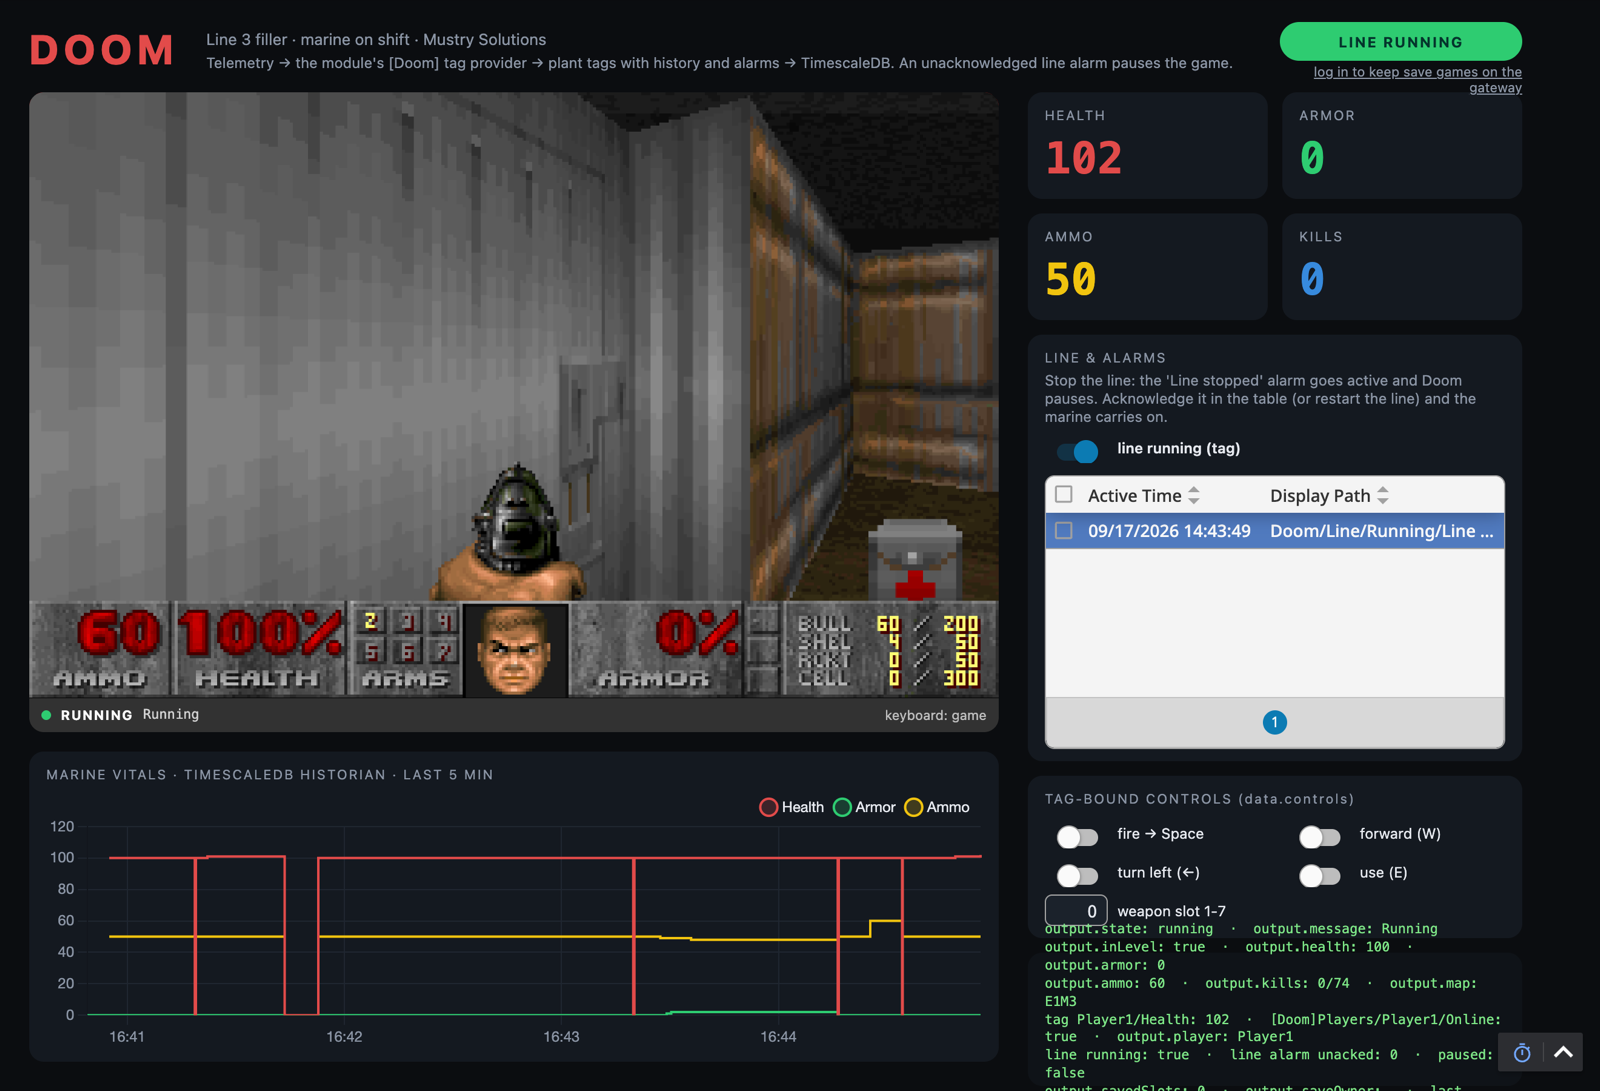
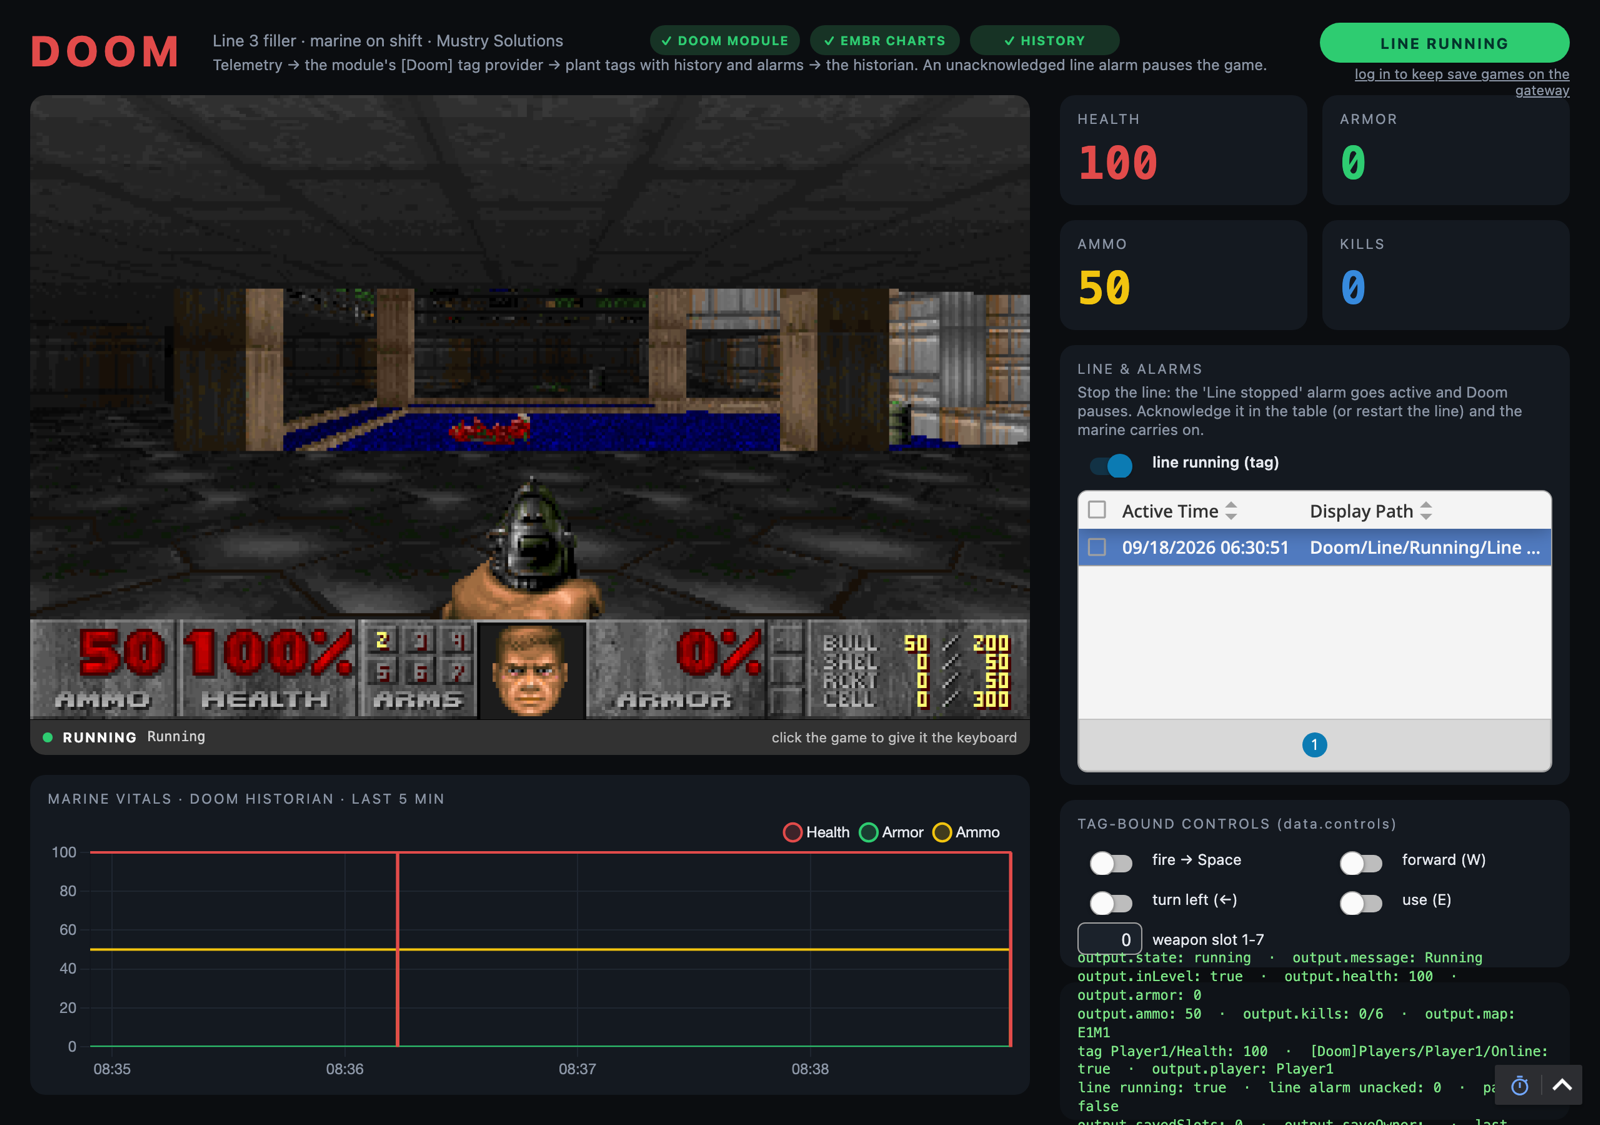
Demo: requirements pills in the header, README full-experience table; fix history never enabling
The control-room header shows three pills (Doom module, Embr Charts,
History), green or grey, driven by one view.custom.requirements check on
the gateway. The chart placeholder names the missing piece and the chart
component is hidden unless both optional pieces exist. README gets a table
of the three pieces and where each comes from.

Building the check exposed that the demo's historian lookup called
system.tag.getHistorianProviders, which does not exist in 8.3: since 0.1.2
the error was swallowed and history was never enabled. Providers now come
from system.tag.browseHistoricalTags(""); an e2e test asserts all three
pills are green on the CI gateway.

ops/: container names and ports overridable per checkout so a worktree can
run its own dev gateway; environment wins over .env.

diff --git a/e2e/tests/doom.spec.ts b/e2e/tests/doom.spec.ts
@@ -97,6 +97,18 @@ test('doom: live telemetry reaches the outputs and the bound tags', async ({ pag
     await expect(page.getByText(/output\.player: Player1/)).toBeVisible();
 });
 
+test('demo: the header pills report the Doom module, Embr Charts and a historian present', async ({ page }) => {
+    // The dev/CI gateway stages both optional modules and seeds the "Doom
+    // Historian" profile, so all three must be found. A grey pill here means
+    // the detection broke (0.1.2 shipped with history silently off because it
+    // called a system.tag function that does not exist).
+    await openRoute(page, '/', '.mustry-doom');
+    await expect(page.getByText('\u2713 DOOM MODULE')).toBeVisible({ timeout: 20_000 });
+    await expect(page.getByText('\u2713 EMBR CHARTS')).toBeVisible();
+    await expect(page.getByText('\u2713 HISTORY')).toBeVisible();
+    await expect(page.getByText(/MARINE VITALS \u00b7 DOOM HISTORIAN/)).toBeVisible();
+});
+
 test('doom: quitting from the in-game menu leaves a restartable component, Restart brings it back', async ({ page }) => {
     const root = await startGame(page);
     // Real keys through the focused canvas: Escape opens the menu, Quit Game is

diff --git a/ops/verify/project/ignition/script-python/doom/code.py b/ops/verify/project/ignition/script-python/doom/code.py
@@ -18,16 +18,54 @@
 # project), fall back to whatever historian exists, else no history at all.
 PREFERRED_HISTORIAN = "Doom Historian"
 
+# Module ids the full demo wants, as module.xml declares them.
+DOOM_MODULE = "com.mustrysolutions.doom"
+EMBR_CHARTS_MODULE = "com.mussonindustrial.embr.charts"
+
 
 def historian():
-    """The tag history provider to use, or None when the gateway has none."""
+    """The tag history provider to use, or None when the gateway has none.
+
+    8.3 has no script call that lists historians by name; browsing the
+    historical tag tree from its root returns one node per provider, as
+    "histprov:<name>". (system.tag.getHistorianProviders does not exist.)"""
+    names = []
     try:
-        names = list(system.tag.getHistorianProviders())
-    except Exception:
-        names = []
+        for node in system.tag.browseHistoricalTags("").getResults():
+            path = str(node.getPath())
+            if path.startswith("histprov:"):
+                names.append(path[len("histprov:"):].split(":")[0])
+    except Exception as e:
+        system.util.getLogger("MustryDoom.verify").warn("Could not list historian providers: %s" % e)
     if PREFERRED_HISTORIAN in names:
         return PREFERRED_HISTORIAN
     return names[0] if names else None
+
+
+def running_modules():
+    """Ids of the modules this gateway is running (system.util.getModules reports State "ACTIVE")."""
+    ids = set()
+    try:
+        for row in system.dataset.toPyDataSet(system.util.getModules()):
+            if str(row["State"]).lower() in ("active", "running"):
+                ids.add(str(row["Id"]))
+    except Exception as e:
+        system.util.getLogger("MustryDoom.verify").warn("Could not list modules: %s" % e)
+    return ids
+
+
+def requirements():
+    """What the full demo needs versus what this gateway has. Drives the
+    header pills and the chart placeholder in the DoomDemo view:
+    {"doom": bool, "embr": bool, "history": bool, "historian": name or None}."""
+    running = running_modules()
+    provider = historian()
+    return {
+        "doom": DOOM_MODULE in running,
+        "embr": EMBR_CHARTS_MODULE in running,
+        "history": provider is not None,
+        "historian": provider,
+    }
 
 
 def member(player, name, data_type, doc, alarms=None):

diff --git a/README.md b/README.md
@@ -60,8 +60,8 @@ provides the game and the tags; the screen around them is this project.
 
 *The control room. Tiles and chart are ordinary tags: the component writes
 its telemetry into the module's own `[Doom]` provider and the plant side
-mirrors it with history and alarms. Those breaks in the trend are engine
-restarts, not network loss.*
+mirrors it with history and alarms. The three pills in the header are the
+requirements check: this gateway has the module, Embr Charts and a historian.*
 
 ![The line is stopped: the header pill turns red, the "Line stopped" alarm sits unacknowledged in the table, and Doom shows its pause banner.](docs/images/alarm-pause.png)
 
@@ -92,7 +92,7 @@ itself with each player's telemetry, save games per user, and the deathmatch
 relay. All of it works from a bare component with default settings.
 
 **What it does not give you:** the control-room screen in the pictures
-below. That is a demo project, and it is one download away.
+above. That is a demo project, and it is one download away.
 
 ### The demo project
 
@@ -102,11 +102,19 @@ with the control-room view at `/`, the deathmatch arena at
 `/arena/host/<player>` and `/arena/join/<player>`, and `/wad/<iwad>` for a
 WAD of your own. The tags it uses are created the first time a view opens.
 
-The trend in the control room wants two optional modules: [Embr Charts](https://github.com/mussonindustrial/embr/releases)
-for the chart and a tag history provider, for instance the
-[Mustry TimescaleDB Historian](https://github.com/Mustry-Solutions/timescaledb-historian-module),
-for the data. Without them the chart card says so and the rest of the page
-works.
+**The full experience needs three things.** Two of them are optional, and
+the view tells you which ones it found: three pills in the header, green when
+the piece is there and grey when it is not. Hover one for what to do.
+
+| Piece | What it adds | Where |
+|---|---|---|
+| **Mustry Doom** module | The game, the `[Doom]` tags, save games, deathmatch. Everything except the trend. | This repo's [releases](https://github.com/Mustry-Solutions/ignition-doom-module/releases) |
+| **Embr Charts** (optional) | Draws the five-minute vitals trend. | Musson Industrial's [releases](https://github.com/mussonindustrial/embr/releases): the `Embr-Charts-Ignition83` file. Free, MIT. |
+| A **tag history provider** (optional) | Data for the trend. The demo enables history on its tags when it finds one. | Any historian. We use the [Mustry TimescaleDB Historian](https://github.com/Mustry-Solutions/timescaledb-historian-module) (needs a PostgreSQL/TimescaleDB database). |
+
+Without the optional two, the chart card says which one is missing and the
+rest of the page works. Add them later and reload the page: the tags pick up
+history on the next open.
 
 ---
 

diff --git a/CHANGELOG.md b/CHANGELOG.md
@@ -18,6 +18,28 @@ are semver. Ignition's module version is numeric only, so releases are plain
 - `GET /system/doom-relay/` answers with the relay's status: live arenas,
   whether each has a server, how many peers. No player names; the path is
   unauthenticated.
+- Demo project: three pills in the control-room header show whether the Doom
+  module, Embr Charts and a tag history provider are present on this gateway,
+  with a tooltip saying where to get a missing one. The chart placeholder
+  names the missing piece and the chart caption names the historian in use.
+- README: a "full experience" table listing the three pieces and where each
+  comes from.
+- `ops/`: container names and ports can be overridden per checkout, so a
+  worktree can run a second dev gateway beside the main one. Environment
+  variables now win over `.env`.
+- e2e: the header pills must all be green on the CI gateway.
+
+### Fixed
+
+- Demo project: history was silently never enabled on the demo tags since
+  0.1.2. The historian lookup called `system.tag.getHistorianProviders`,
+  which does not exist in 8.3; the error was swallowed and the script
+  concluded the gateway had no historian. Providers are now read from
+  `system.tag.browseHistoricalTags("")`. Reopening the view after upgrading
+  the project rebuilds the player folder with history on.
+- Demo project: the chart component is not rendered at all when Embr Charts
+  or a historian is missing, instead of Perspective's missing-component box
+  covering the explanation.
 
 ## [0.1.2] - 2026-09-17
 

diff --git a/CLAUDE.md b/CLAUDE.md
@@ -148,6 +148,11 @@ inside the container is a symlink to stdout: use `docker logs`, not `grep`.
   `scales.x.type = "time"` (moment adapter is bundled).
 - The e2e spec relies on toggle DOM order fire, forward, turnLeft, use,
   lineRunning and on the readout text patterns; keep them when restyling.
+- `view.custom.requirements` (expression `now(30000)` + script transform
+  calling `doom.requirements()`) is the one gateway check behind the three
+  header pills (reqDoom/reqEmbr/reqHistory), the chart caption and the
+  chart placeholder text. Module presence comes from `system.util.getModules`
+  by module id; the historian from `doom.historian()`.
 
 ## Verify project tags
 
@@ -165,6 +170,9 @@ boot, so do not reintroduce it without confirming the 8.3 format.
 ./gradlew build                 # .modl + jest + Java (gateway JUnit: save store, relay tickets)
 cd web && npx tsc --noEmit && npm test
 ops/fresh.sh                    # unattended dev gateway on :9188
+# A second checkout (worktree) beside it: CONTAINER_NAME=mdoom-b TIMESCALE_CONTAINER_NAME=mdoom-b-db
+#   GATEWAY_HTTP_PORT=9288 GATEWAY_HTTPS_PORT=9243 TIMESCALE_PORT=5588 ops/fresh.sh
+# Never tear down a container another checkout owns: `docker inspect <name>` shows its mounts.
 ops/deploy.sh                   # reload a new build
 ops/e2e.sh [--fresh|--no-deploy] # Playwright smoke test (e2e/), what CI runs
 ```

diff --git a/docs/reference.md b/docs/reference.md
@@ -258,6 +258,13 @@ turn-left tag control and asserts the frame actually changed, and flips
 The gateway comes up at http://localhost:9188 (admin / password) with a
 `verify` project mounted from `ops/verify/project`. Open
 http://localhost:9188/data/perspective/client/verify and click the game.
+A second checkout (a worktree, say) can run its own gateway beside it by
+overriding the container names and ports:
+
+```bash
+CONTAINER_NAME=mdoom-b TIMESCALE_CONTAINER_NAME=mdoom-b-db \
+GATEWAY_HTTP_PORT=9288 GATEWAY_HTTPS_PORT=9243 TIMESCALE_PORT=5588 ops/fresh.sh
+```
 
 The compose file also starts TimescaleDB, and `ops/fresh.sh` seeds a
 "Doom Historian" profile for the [Mustry TimescaleDB Historian](https://github.com/Mustry-Solutions/timescaledb-historian-module)
